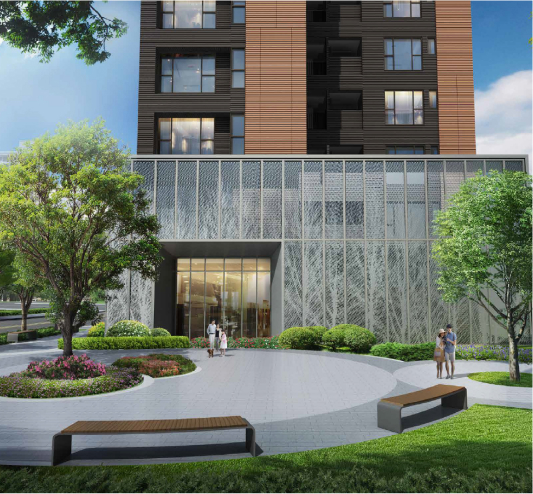
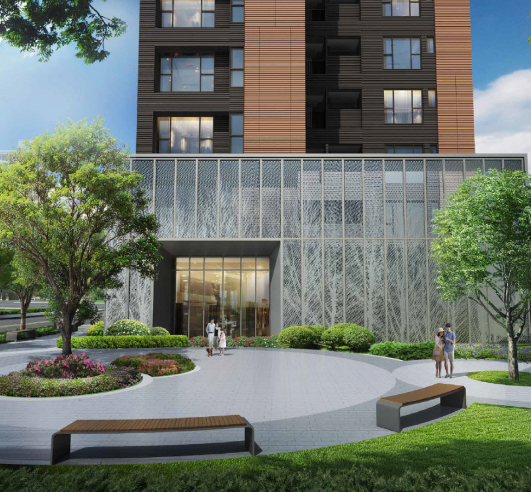
修改+壓縮

diff --git a/src/section/s1.vue b/src/section/s1.vue
@@ -1,10 +1,10 @@
 <template>
   <article class="s1">
-    <img class="leaf l" v-if="!$isMobile()" src="@/section/s1/leaf_l.png" alt="" srcset="">
-    <img class="leaf r" v-if="!$isMobile()" src="@/section/s1/leaf_r.png" alt="" srcset="">
-    <img class="leaf mb" v-if="$isMobile()" src="@/section/s1/leaf_mb.png" alt="" srcset="">
-    <img class="leaf b" v-if="!$isMobile()" src="@/section/s1/leaf_b.png" alt="" srcset="">
-    <img class="leaf b" v-else src="@/section/s1/leaf_b_m.png" alt="" srcset="">
+    <img class="leaf l" v-if="!$isMobile()" src="@/section/s1/leaf_l.webp" alt="" srcset="">
+    <img class="leaf r" v-if="!$isMobile()" src="@/section/s1/leaf_r.webp" alt="" srcset="">
+    <img class="leaf mb" v-if="$isMobile()" src="@/section/s1/leaf_mb.webp" alt="" srcset="">
+    <img class="leaf b" v-if="!$isMobile()" src="@/section/s1/leaf_b.webp" alt="" srcset="">
+    <img class="leaf b" v-else src="@/section/s1/leaf_b_m.webp" alt="" srcset="">
     <div class="main">
       <img data-aos="fade-up" src="@/section/s1/logo.svg" class="logo" alt="" srcset="">
       <p data-aos="fade-up" data-aos-delay="200" class="t1">轉身繁華 衷於回家</p>
@@ -15,8 +15,8 @@
         <img src="@/section/s1/line.svg" alt="" srcset="">
       </div>
       <img data-aos="fade-up" data-aos-delay="800" v-if="!$isMobile()" class="order-btn" src="@/section/s1/order-btn.svg" alt="" srcset="" @click="scrollTo('.order')">
-      <img data-aos="fade-up" data-aos-delay="1000" class="logo2" src="@/section/s1/logo2.png" alt="" srcset="">
-      <img data-aos-delay="1700" data-aos="fade-right" class="leaf-small" src="@/section/s1/leaf_small.png" alt=""
+      <img data-aos="fade-up" data-aos-delay="1000" class="logo2" src="@/section/s1/logo2.webp" alt="" srcset="">
+      <img data-aos-delay="1700" data-aos="fade-right" class="leaf-small" src="@/section/s1/leaf_small.webp" alt=""
         srcset="">
     </div>
   </article>
@@ -33,7 +33,7 @@
   position: relative;
   overflow: hidden;
   background-size: cover;
-  background-image: url('@/section/s1/bg.jpg');
+  background-image: url('@/section/s1/bg.webp');
 
   .leaf {
     @apply select-none pointer-events-none absolute z-10;
@@ -60,6 +60,7 @@
       margin-left: -55%;
       animation: wave2 3s alternate-reverse infinite ease-in-out;
       transform-origin: bottom center;
+      mix-blend-mode: normal;
     }
 
     @keyframes wave {
@@ -77,6 +78,7 @@
   .main {
     @apply absolute w-full flex flex-col items-center text-white;
     bottom: size(155);
+    z-index: 99;
     .leaf-small {
       @apply absolute;
       width: size(69.54);
@@ -104,7 +106,7 @@
         width: size(184.71);
         height: size(76.92);
         background-size: contain;
-        background-image: url('@/section/s1/style.png');
+        background-image: url('@/section/s1/style.webp');
         transform: translateZ(-1px);
         animation: fadeIn 1s forwards;
         animation-delay: 1400ms;
@@ -167,7 +169,7 @@
     min-height: sizem(667);
     max-height: sizem(812);
     overflow: hidden;
-    background-image: url('@/section/s1/bg_mb.jpg');
+    background-image: url('@/section/s1/bg_mb.webp');
     
 
     .leaf {

diff --git a/src/section/form/contactInfo.vue b/src/section/form/contactInfo.vue
@@ -2,15 +2,15 @@
   <div class="contact-info mx-auto  flex flex-col items-center justify-between">
     <!-- <div class="logo"></div> -->
     <div class="flex justify-between w-full contact-item-box">
-      <div class="flex contact-item justify-between items-center" @click="modalOpen = true; modalType = 'phone'">
+      <div class="flex contact-item justify-center items-center" @click="modalOpen = true; modalType = 'phone'">
         <img src="@/section/form/phone.svg" alt="長耀加" srcset="" />
         <div>{{ info.phone }}</div>
       </div>
-      <div class="flex contact-item justify-between items-center" @click="modalOpen = true; modalType = 'fb'">
+      <div class="flex contact-item justify-center items-center" @click="modalOpen = true; modalType = 'fb'">
         <img src="@/section/form/messenger.svg" alt="長耀加" srcset="" />
         <div>Facebook 諮詢</div>
       </div>
-      <div class="flex contact-item justify-between items-center btfanpage" @click="open()">
+      <div class="flex contact-item justify-center items-center btfanpage" @click="open()">
         <img src="@/section/form/fb.svg" alt="長耀加" srcset="" />
         <div>前往粉絲專頁</div>
       </div>
@@ -19,7 +19,7 @@
       <div class="flex contact-item justify-between items-center address">
         <div>{{ info.address }}</div>
       </div>
-      <div class="flex contact-item justify-between items-center googlemap" @click="modalOpen = true; modalType = 'gmap'">
+      <div class="flex contact-item justify-center items-center googlemap" @click="modalOpen = true; modalType = 'gmap'">
         <img src="@/section/form/gmap.svg" alt="長耀加" srcset="" />
         <div>導航 GoogleMap</div>
       </div>
@@ -229,7 +229,7 @@
     width: sizem(375);
     height: auto;
     // border-radius: sizem(68);
-    padding: sizem(50) sizem(15);
+    padding: sizem(50) sizem(30);
     margin-top: sizem(60);
     position: relative;
     justify-content: flex-start;
@@ -249,7 +249,7 @@
 
       .contact-item {
         padding: 0 sizem(80);
-        font-size: sizem(16);
+        font-size: sizem(14);
         max-width: 100%;
         white-space: nowrap;
           border-radius: sizem(10);
@@ -259,12 +259,14 @@
           height: auto;
           max-height: sizem(27);
           margin: unset;
+          margin-right:sizem(10);
         }
 
         &.address {
           border-radius: sizem(10) sizem(10) 0 0;
           padding: 0 0;
           margin-top: sizem(20);
+          font-size: sizem(13);
 
           &::before {
             width: 100%;

diff --git a/src/section/s3.vue b/src/section/s3.vue
@@ -1,6 +1,6 @@
 <template>
   <article class="s3">
-    <img class="t1" data-aos="fade-up" src="@/section/s3/t1.png" alt="" srcset="">
+    <img class="t1" data-aos="fade-up" src="@/section/s3/t1.webp" alt="" srcset="">
     <div class="t2 decor" data-aos="fade-up">長耀愛林口 攜手向前走</div>
     <div class="t3">
       換屋，是追求空間換新，更是環境的升級，為此，長耀前瞻開發、精選良地，建築之外更替城市留下一片樸實綠景。今日工一園區、影視園區、國際媒體園區、三井Outlet二期等千億投資，再再預告了昔日的衛星新市鎮，向未來城市進化中，因此長耀為「愛」而愛，告別內湖前行林口，一同踏上林口的進步軌跡，看見未來顛覆你我想像的城市淘金史！

diff --git a/src/section/s4.vue b/src/section/s4.vue
@@ -132,6 +132,7 @@
       width: sizem(310);
       font-size: sizem(14);
       margin-top: sizem(15);
+      text-align:justify;
     }
   }
 }
@@ -155,8 +156,8 @@ import { computed, getCurrentInstance, ref } from 'vue';
 const globals = getCurrentInstance().appContext.config.globalProperties;
 
 const getImg = (path) => {
-  if (!globals.$isMobile()) return new URL(`${path}.jpg`, import.meta.url).href;
-  return new URL(`${path}_m.jpg`, import.meta.url).href
+  if (!globals.$isMobile()) return new URL(`${path}.webp`, import.meta.url).href;
+  return new URL(`${path}_m.webp`, import.meta.url).href
 }
 
 const splide = ref();

diff --git a/src/section/s5.vue b/src/section/s5.vue
@@ -165,8 +165,8 @@ import { computed, getCurrentInstance, ref } from 'vue';
 const globals = getCurrentInstance().appContext.config.globalProperties;
 
 const getImg = (path) => {
-  if (!globals.$isMobile()) return new URL(`${path}.jpg`, import.meta.url).href;
-  return new URL(`${path}_m.jpg`, import.meta.url).href
+  if (!globals.$isMobile()) return new URL(`${path}.webp`, import.meta.url).href;
+  return new URL(`${path}_m.webp`, import.meta.url).href
 }
 
 const splide = ref();

diff --git a/src/components/fullview.vue b/src/components/fullview.vue
@@ -1,6 +1,6 @@
 <template>
     <div class="viewbox" ref="viewbox">
-        <img ref="viewImg" src="@/section/s2/view.jpg" alt="" srcset="">
+        <img ref="viewImg" src="@/section/s2/view.webp" alt="" srcset="">
         <div class="mask" v-bind:class="{ hide: swiped }" v-if="$isMobile()">
             <img src="@/components/fullview/finger.png" alt="" srcset="">
         </div>

diff --git a/src/section/form/houseInfo.vue b/src/section/form/houseInfo.vue
@@ -87,7 +87,7 @@
     background-size:101%;
     background-position: center;
     background-repeat: no-repeat;
-    height: sizem(400);
+    height: sizem(480);
 }
     .footer {
         margin-bottom: sizem(0);
@@ -96,7 +96,6 @@
 
     .info-box {
         width: sizem(313);
-        padding: 0;
 
         .title {
             font-size: sizem(29);

diff --git a/src/section/s9.vue b/src/section/s9.vue
@@ -53,6 +53,7 @@
       letter-spacing: 0.05em;
       color: #fff;
       width: size(506);
+      
     }
     }
   }
@@ -109,6 +110,7 @@
       font-size: sizem(14);
       line-height: 170%;
       width: sizem(310);
+      text-align:justify;
     }
     }
   }

diff --git a/src/section/s6.vue b/src/section/s6.vue
@@ -121,6 +121,7 @@
     .t3 {
       font-size: sizem(14);
       line-height: sizem(24);
+      text-align:justify;
 
     }
     }
